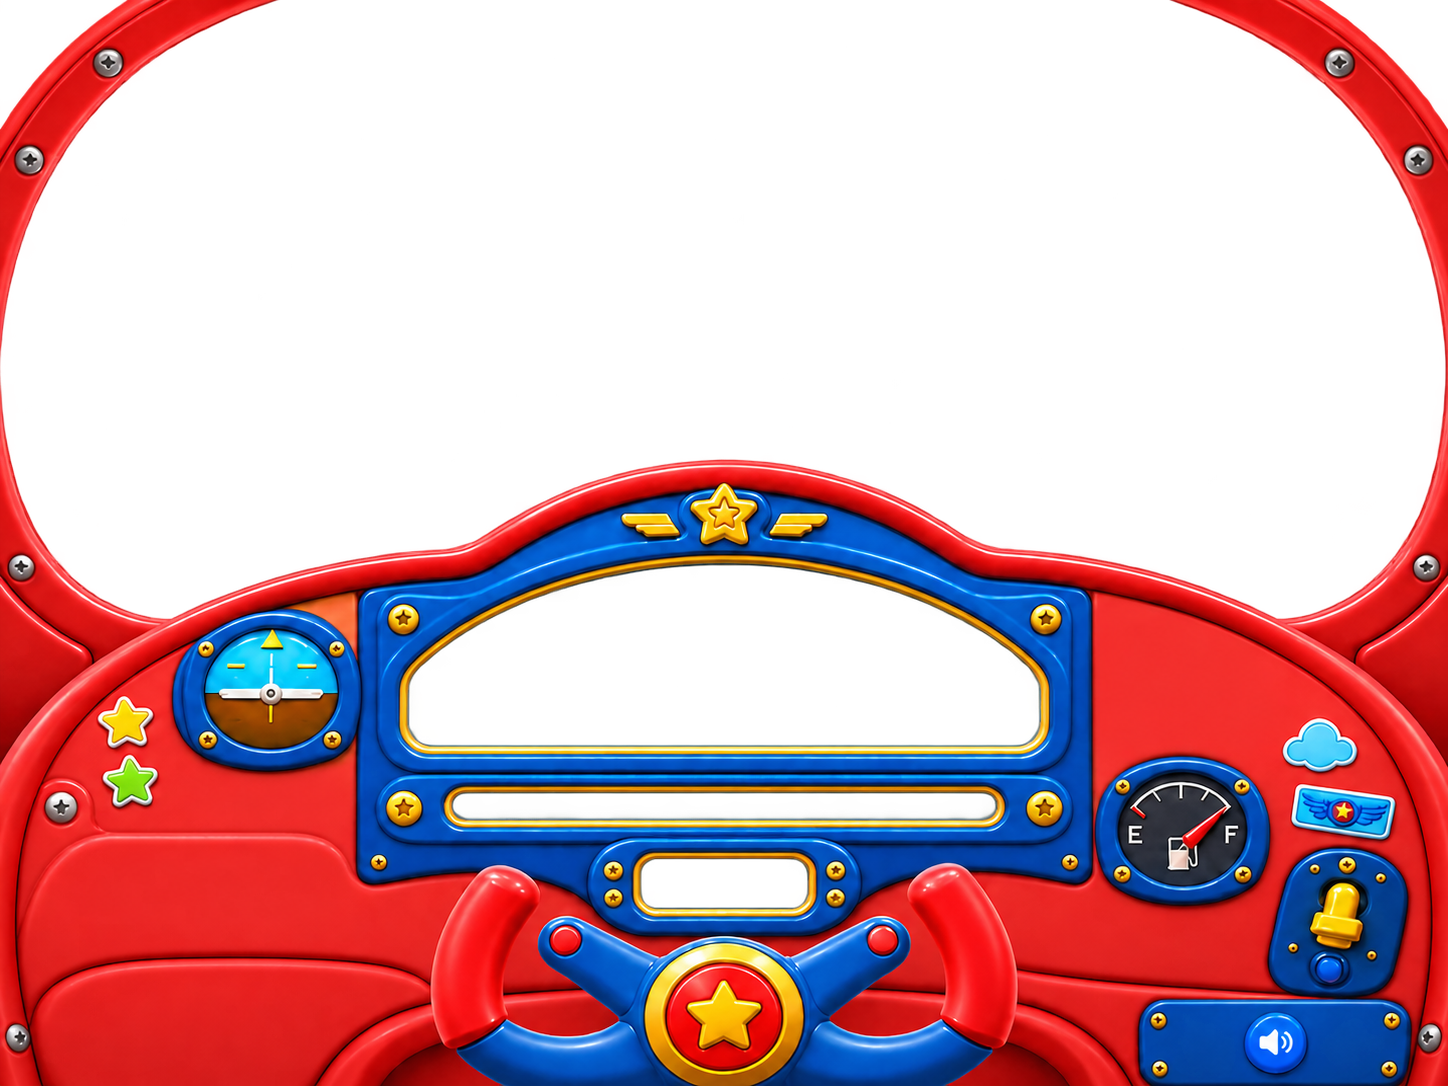
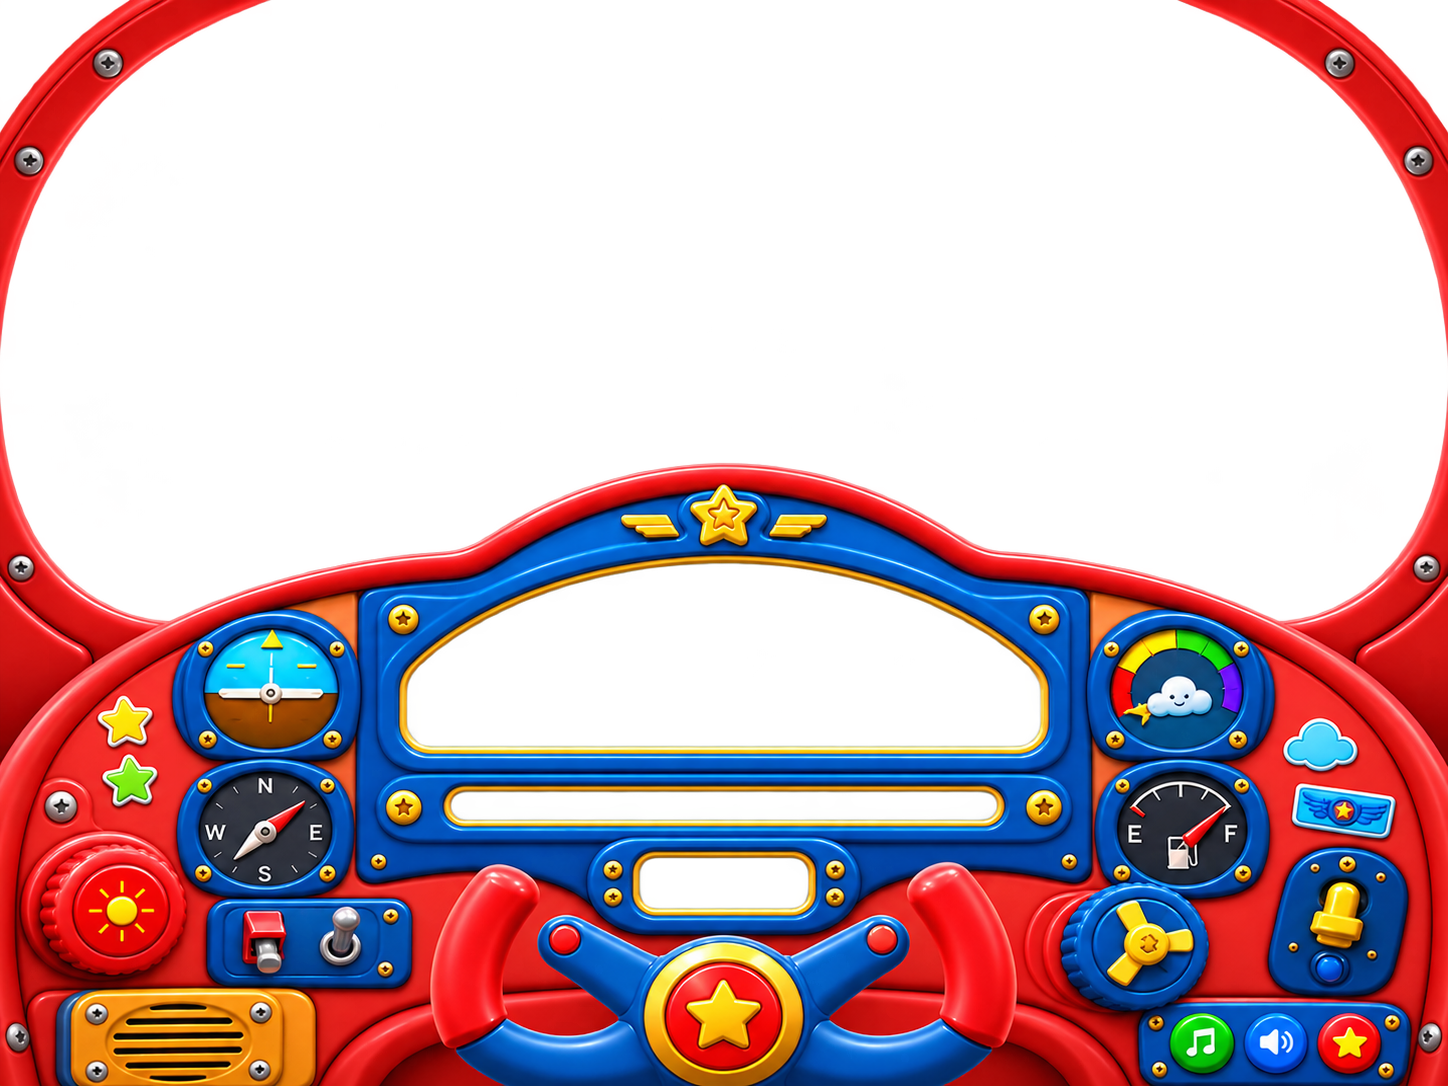
ytuyut

diff --git a/viritysmittari/index.html b/viritysmittari/index.html
@@ -4,7 +4,7 @@
 <meta charset="utf-8">
 <meta name="viewport" content="width=device-width,initial-scale=1,viewport-fit=cover">
 <meta name="theme-color" content="#172033">
-<title>Lentokoneviritin</title>
+<title>Lentokoneviritin · 1.7.2</title>
 <style>
   :root {
     color-scheme: dark;
@@ -2607,96 +2607,96 @@
   document.head.appendChild(liveStyle);
 
   const defaults = {
-    "visual": {
-        "cockpitOpacity": 1,
-        "flightMaxTilt": 8,
-        "flightSmoothMs": 360,
-        "flightShiftX": 2.2,
-        "flightShiftY": 0.7,
-        "analogX": 28.18,
-        "analogY": 51.93,
-        "analogW": 43.58,
-        "analogH": 16.67,
-        "dialW": 82.5,
-        "dialH": 95,
-        "dialBottom": 0.35,
-        "needleH": 9.2,
-        "needleW": 0.46,
-        "needleResponse": 90,
-        "pivotSize": 2.15,
-        "tickLength": 9,
-        "scaleFont": 0.78,
-        "centFont": 0.95,
-        "targetNoteFont": 1.35,
-        "targetHzFont": 0.72,
-        "targetX": 1.35,
-        "targetBottom": 1.05,
-        "ledX": 31.22,
-        "ledY": 73.02,
-        "ledW": 37.57,
-        "ledH": 2.39,
-        "ledGap": 0.27,
-        "ledSegH": 0.72,
-        "ledOffOpacity": 0.72,
-        "ledCenterOpacity": 0.56,
-        "ledOnGlow": 0.9,
-        "digitalX": 44.27,
-        "digitalY": 79.10,
-        "digitalW": 11.53,
-        "digitalH": 4.42,
-        "hzFont": 1.55,
-        "statusX": 50,
-        "statusY": 2,
-        "statusFont": 0.84,
-        "statusOpacity": 0.58,
-        "prevX": 5.95,
-        "prevY": 62.4,
-        "prevSize": 4.8,
-        "nextX": 6.25,
-        "nextY": 68.5,
-        "nextSize": 4.8,
-        "startX": 84.1,
-        "startY": 92.0,
-        "startSize": 5.2,
-        "autoX": 88.1,
-        "autoY": 78.6,
-        "autoW": 5.8,
-        "autoH": 12.6,
-        "memoryColor": "#5cc5ff",
-        "memoryFillAlpha": 0.26,
-        "memoryStrokeAlpha": 0.98,
-        "memoryStrokeWidth": 3.2,
-        "memoryLineWidth": 6,
-        "ledMemoryFillAlpha": 0.28,
-        "ledMemoryStrokeAlpha": 1,
-        "ledMemoryStrokeWidth": 2.2,
-        "ledMemoryGlow": 13
-    },
-    "memory": {
-        "initialSettleMs": 50,
-        "initialSettleSpanCents": 0.75,
-        "extremeConfirmMs": 50,
-        "extremeStabilityCents": 1.5,
-        "singlePositionArcPx": 4,
-        "outerRadiusRatio": 0.46,
-        "bandThicknessRatio": 0.11
-    },
-    "pitch": {
-        "minHz": 45,
-        "maxHz": 3000,
-        "rmsGate": 0.00025,
-        "yinThreshold": 0.12,
-        "acquireWindow": 5,
-        "acquireRequired": 4,
-        "acquireTolerance": 2,
-        "lockTolerance": 4,
-        "displaySize": 5,
-        "switchWindow": 5,
-        "switchRequired": 4,
-        "switchTolerance": 2,
-        "silenceReleaseMs": 0
-    }
-};
+      "visual": {
+          "cockpitOpacity": 1,
+          "flightMaxTilt": 8,
+          "flightSmoothMs": 360,
+          "flightShiftX": 2.2,
+          "flightShiftY": 0.7,
+          "analogX": 28.18,
+          "analogY": 51.93,
+          "analogW": 43.58,
+          "analogH": 17.3,
+          "dialW": 82.5,
+          "dialH": 95,
+          "dialBottom": 0.35,
+          "needleH": 9.2,
+          "needleW": 0.46,
+          "needleResponse": 90,
+          "pivotSize": 2.15,
+          "tickLength": 9,
+          "scaleFont": 0.78,
+          "centFont": 0.95,
+          "targetNoteFont": 1.35,
+          "targetHzFont": 0.72,
+          "targetX": 2,
+          "targetBottom": 1.05,
+          "ledX": 31.22,
+          "ledY": 72.75,
+          "ledW": 37.75,
+          "ledH": 2.9,
+          "ledGap": 0.27,
+          "ledSegH": 0.72,
+          "ledOffOpacity": 0.72,
+          "ledCenterOpacity": 0.56,
+          "ledOnGlow": 0.9,
+          "digitalX": 43.15,
+          "digitalY": 78.7,
+          "digitalW": 13.7,
+          "digitalH": 5.3,
+          "hzFont": 1.55,
+          "statusX": 50,
+          "statusY": 2,
+          "statusFont": 0.84,
+          "statusOpacity": 0.58,
+          "prevX": 36.7,
+          "prevY": 82.5,
+          "prevSize": 4.8,
+          "nextX": 58.6,
+          "nextY": 82.5,
+          "nextSize": 4.8,
+          "startX": 84.1,
+          "startY": 92,
+          "startSize": 5.2,
+          "autoX": 88.1,
+          "autoY": 78.6,
+          "autoW": 5.8,
+          "autoH": 12.6,
+          "memoryColor": "#5cc5ff",
+          "memoryFillAlpha": 0.26,
+          "memoryStrokeAlpha": 0.98,
+          "memoryStrokeWidth": 3.2,
+          "memoryLineWidth": 6,
+          "ledMemoryFillAlpha": 0.28,
+          "ledMemoryStrokeAlpha": 1,
+          "ledMemoryStrokeWidth": 2.2,
+          "ledMemoryGlow": 13
+      },
+      "memory": {
+          "initialSettleMs": 50,
+          "initialSettleSpanCents": 0.75,
+          "extremeConfirmMs": 50,
+          "extremeStabilityCents": 1.5,
+          "singlePositionArcPx": 4,
+          "outerRadiusRatio": 0.46,
+          "bandThicknessRatio": 0.11
+      },
+      "pitch": {
+          "minHz": 45,
+          "maxHz": 3000,
+          "rmsGate": 0.00025,
+          "yinThreshold": 0.12,
+          "acquireWindow": 5,
+          "acquireRequired": 4,
+          "acquireTolerance": 2,
+          "lockTolerance": 4,
+          "displaySize": 5,
+          "switchWindow": 5,
+          "switchRequired": 4,
+          "switchTolerance": 2,
+          "silenceReleaseMs": 0
+      }
+  };
   let settings = JSON.parse(JSON.stringify(defaults));
 
   const clamp = (v,min,max) => Math.max(min,Math.min(max,v));
